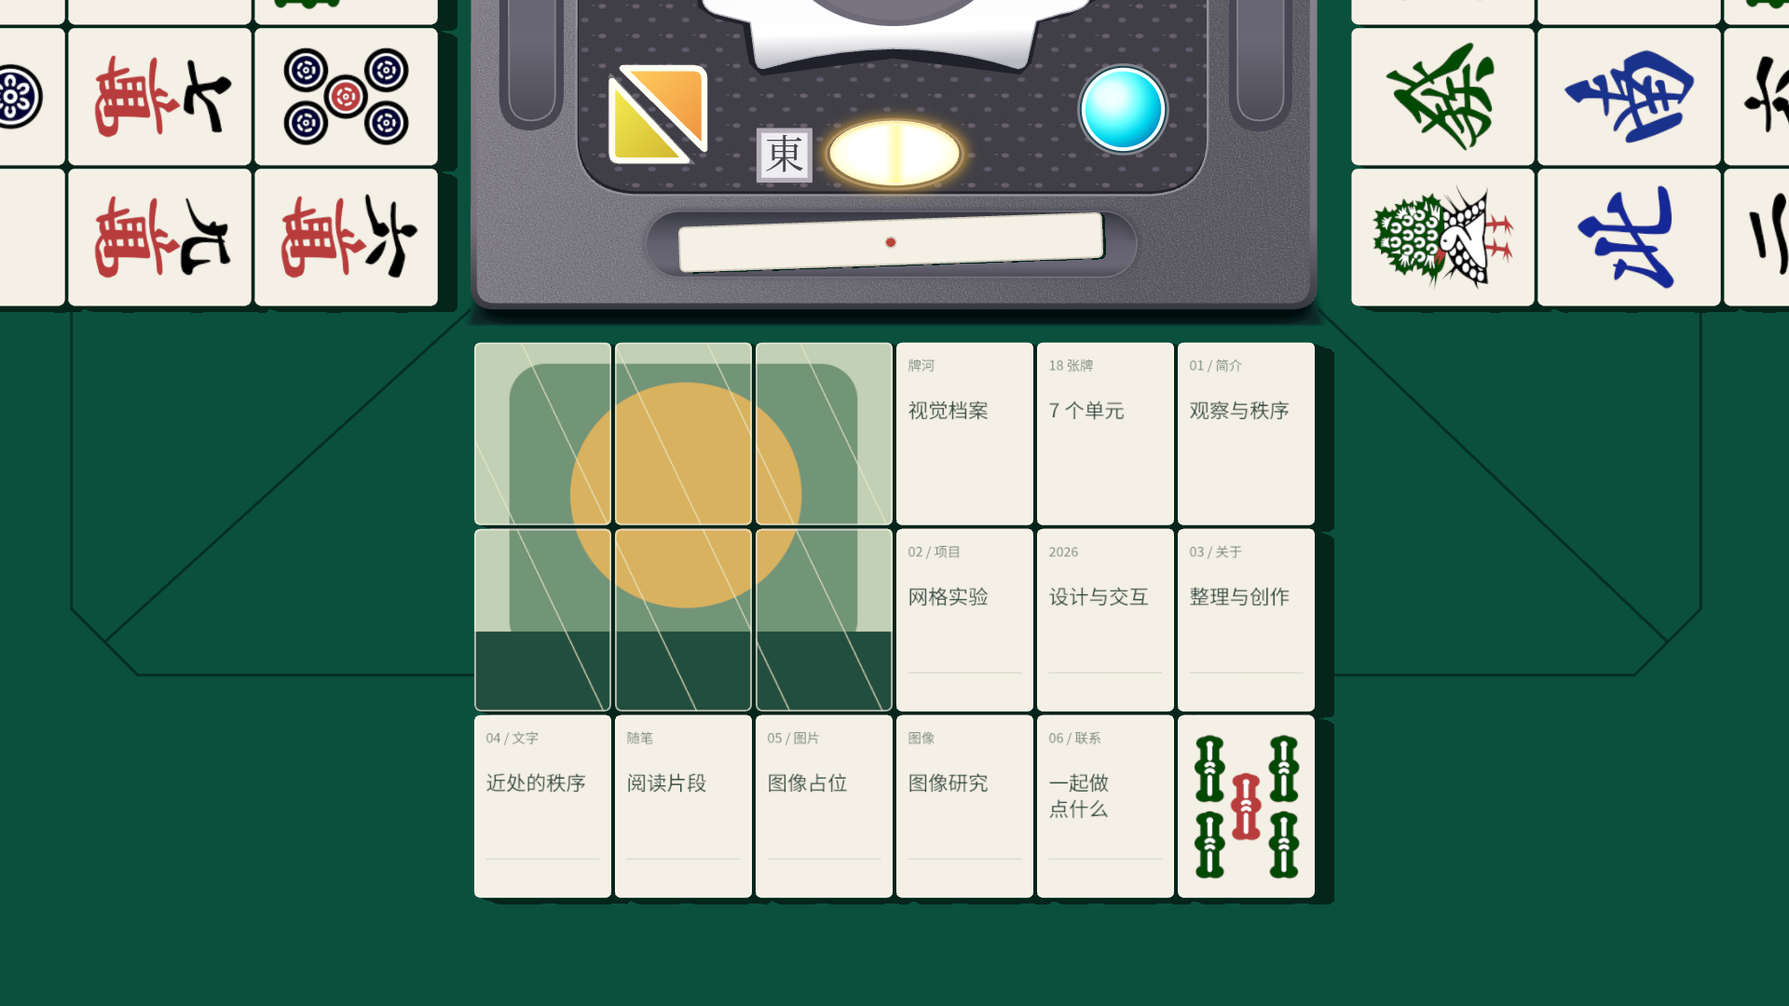
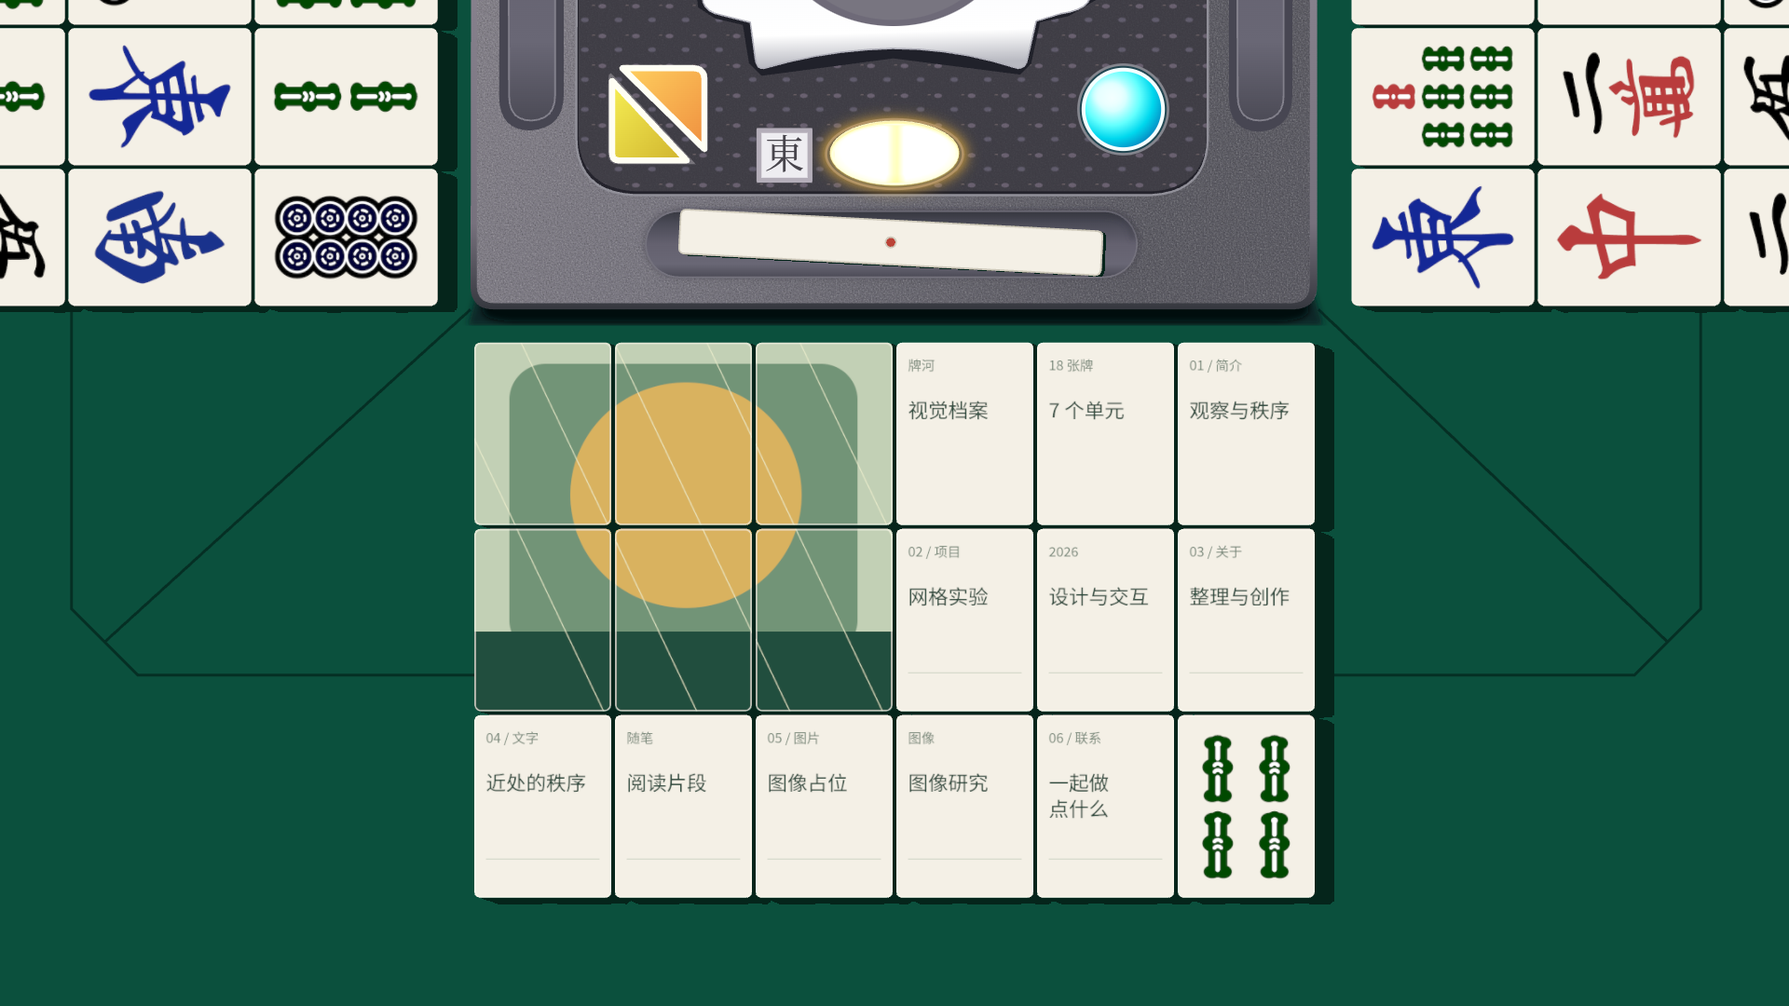
Switch yellow control between start and reset with a three-degree stick tilt

diff --git a/app.js b/app.js
@@ -1,10 +1,10 @@
-import { smooth, center, entryScale, flipPose, motionDistance } from './geometry.js?v=20261011-all-rivers';
-import { Mahjong3D, VIEW } from './mahjong-3d.js?v=20261011-all-rivers';
-import { REST_STICK, STICK_PICKUP_DURATION, createStickDrop, stickMotionDistance } from './score-stick.js?v=20261011-all-rivers';
-import { flipAt, settleFlips, revealTiles, resetTiles } from './tile-interactions.js?v=20261011-all-rivers';
-import { RIICHI_FACES, nextRiichiFace, sideRiverFaces } from './riichi-faces.js?v=20261011-all-rivers';
-import { sideRiverCenters } from './river-layout.js?v=20261011-all-rivers';
-import { drawTableSeams, tableLayout } from './table-surface.js?v=20261011-all-rivers';
+import { smooth, center, entryScale, flipPose, motionDistance } from './geometry.js?v=20261011-start-button';
+import { Mahjong3D, VIEW } from './mahjong-3d.js?v=20261011-start-button';
+import { REST_STICK, STICK_PICKUP_DURATION, createStickDrop, stickMotionDistance } from './score-stick.js?v=20261011-start-button';
+import { flipAt, settleFlips, revealTiles, resetTiles, topLeftTile, yellowAction } from './tile-interactions.js?v=20261011-start-button';
+import { RIICHI_FACES, nextRiichiFace, sideRiverFaces } from './riichi-faces.js?v=20261011-start-button';
+import { sideRiverCenters } from './river-layout.js?v=20261011-start-button';
+import { drawTableSeams, tableLayout } from './table-surface.js?v=20261011-start-button';
 import { CONTROL } from './physical-layout.js';
 
 const $ = (id) => document.getElementById(id);
@@ -242,7 +242,7 @@ function render(time) {
     scene.inert = false;
     $('score-stick').disabled = false;
     $('reset').disabled = false;
-    $('status').textContent = '三处牌河已落定。点击任意蓝背牌，以它为中心波纹翻开全部牌。';
+    $('status').textContent = '三处牌河已落定。点击黄色灯开始，或点击任意蓝背牌，以它为中心波纹翻开全部牌。';
   }
   if (stickDrop && time >= stickEpoch + stickDrop.duration) {
     restingStick = stickDrop.settled; stickDrop = null;
@@ -259,7 +259,7 @@ function render(time) {
   if (resetCycle && time >= resetCycle.end) {
     resetCycle = null; phase = 'idle'; $('reset').disabled = false;
     changeRiichiFace();
-    $('status').textContent = '三处牌河已恢复蓝背。点击任意蓝背牌，再次以它为中心波纹翻开全部牌。';
+    $('status').textContent = '三处牌河已恢复蓝背。点击黄色灯开始，或点击任意蓝背牌再次展开。';
   }
   if (interactive() && tiles.every(tile => tile.front && !tile.flips.length)) $('status').textContent = '三处牌河全部翻开。点击黄色灯，从所有牌中左上方的一张开始波纹合牌。';
   board.setAttribute('aria-busy', String(phase === 'entry' || Boolean(resetCycle) || tiles.some((tile) => tile.flips.length)));
@@ -272,6 +272,7 @@ function render(time) {
     ? Array.from({ length: 7 }, (_, index) => tiles.map((tile) => poseAt(tile, time - blur.window * index / 6)))
     : [];
   const stickSamples = sampledPoses.map((_, index) => stickPoseAt(time - blur.window * index / 6));
+  syncControlState();
   mahjong.render(currentPoses, sampledPoses, blur.amount, stickPoseAt(time), stickSamples, { opacity: sceneryOpacity });
   const stickBounds = mahjong.getStickBounds(), hitHeight = Math.max(44, stickBounds.height);
   Object.assign($('score-stick').style, {
@@ -306,6 +307,7 @@ function startReveal(tile) {
   for (const candidate of tiles) updateTileLabel(candidate);
   board.setAttribute('aria-busy', 'true');
   $('status').textContent = `正在以${tilePositionLabel(tile)}为中心波纹翻开三处牌河。`;
+  syncControlState();
   requestRender();
 }
 
@@ -313,11 +315,13 @@ function startReset() {
   if (!interactive()) return;
   const time = performance.now();
   for (const tile of tiles) settleFlips(tile, time);
+  if (yellowAction(tiles) === 'start') { startReveal(topLeftTile(tiles)); return; }
   resetCycle = resetTiles(tiles, time, tiles.map((tile) => poseAt(tile, time)));
   hovered = null; pressed = null; phase = 'reset-conceal';
   for (const tile of tiles) updateTileLabel(tile);
   $('reset').disabled = true; board.setAttribute('aria-busy', 'true');
   $('status').textContent = '正在从三处牌河中左上方的一张开始波纹合牌。';
+  syncControlState();
   requestRender();
 }
 
@@ -377,9 +381,17 @@ function createHitTargets() {
   }
 }
 
+function syncControlState() {
+  const action = yellowAction(tiles), label = action === 'start' ? '开始' : '重置';
+  const control = $('reset');
+  control.dataset.action = action;
+  control.setAttribute('aria-label', `黄色灯${label}：从所有牌中左上方的一张开始波纹${action === 'start' ? '展开' : '合牌'}`);
+  const current = hoveredControl ?? focusedControl;
+  mahjong?.setStickHint(current === 'reset' ? label : CONTROL_HINTS[current] ?? '');
+}
+
 function updateControlHint() {
-  if (!mahjong) return;
-  mahjong.setStickHint(CONTROL_HINTS[hoveredControl ?? focusedControl] ?? '');
+  syncControlState();
   requestRender();
 }
 
@@ -425,7 +437,7 @@ async function initialize() {
     style.addEventListener('error', () => reject(new Error('Stylesheet failed to load')), { once: true });
   });
   await document.fonts.ready;
-  await Promise.all([buildTextures(), loadImage('./assets/control-box.svg?v=20261011-all-rivers').then((image) => { consoleImage = image; })]);
+  await Promise.all([buildTextures(), loadImage('./assets/control-box.svg?v=20261011-start-button').then((image) => { consoleImage = image; })]);
   mahjong = new Mahjong3D($('mahjong'), mainTiles, sideTiles);
   updateControlHint();
   resize();

diff --git a/tests/tile-interactions.test.js b/tests/tile-interactions.test.js
@@ -2,7 +2,7 @@ import test from 'node:test';
 import assert from 'node:assert/strict';
 import { center, flipPose } from '../geometry.js';
 import { sideRiverCenters } from '../river-layout.js';
-import { topLeftTile, rippleDelays, flipAt, settleFlips, revealTiles, resetTiles } from '../tile-interactions.js';
+import { topLeftTile, yellowAction, rippleDelays, flipAt, settleFlips, revealTiles, resetTiles } from '../tile-interactions.js';
 
 const makeTiles = () => [...Array.from({ length: 18 }, (_, index) => center(index)), ...sideRiverCenters('kamicha'), ...sideRiverCenters('shimocha')]
   .map((position, index) => ({ ...position, index, front: false, flips: [], tween: null }));
@@ -11,6 +11,22 @@ const poses = (tiles, time) => tiles.map(tile => {
   const flip = flipAt(tile, time);
   return flip ? flipPose(time - flip.start, flip.from, flip.fromFront, flip.fromHeight)
     : { theta: tile.front ? Math.PI : 0, q: 1, height: 0 };
+});
+
+test('yellow control starts a closed board at the global top-left and resets an open or moving board', () => {
+  const tiles = makeTiles();
+  assert.equal(yellowAction(tiles), 'start');
+  const cycle = revealTiles(tiles, topLeftTile(tiles).index, 100, poses(tiles, 100));
+  assert.equal(cycle.origin, 30); assert.equal(tiles[30].flips[0].start, 100);
+  assert.equal(yellowAction(tiles), 'reset');
+  for (const tile of tiles) settleFlips(tile, cycle.end);
+  assert.equal(yellowAction(tiles), 'reset');
+  const closing = resetTiles(tiles, 1500, poses(tiles, 1500));
+  assert.equal(yellowAction(tiles), 'reset');
+  for (const tile of tiles) settleFlips(tile, closing.end);
+  assert.equal(yellowAction(tiles), 'start');
+  tiles[0].front = true;
+  assert.equal(yellowAction(tiles), 'reset');
 });
 
 test('every tile across all three rivers can originate a spatial reveal wave', () => {

diff --git a/index.html b/index.html
@@ -13,9 +13,9 @@
       #loading[hidden] { display: none; }
     </style>
     <link rel="icon" href="./assets/favicon.svg" type="image/svg+xml">
-    <link id="page-style" rel="stylesheet" href="./styles.css?v=20261011-all-rivers" media="print" onload="this.media='all'">
-    <noscript><link rel="stylesheet" href="./styles.css?v=20261011-all-rivers"></noscript>
-    <script src="./app.js?v=20261011-all-rivers" type="module"></script>
+    <link id="page-style" rel="stylesheet" href="./styles.css?v=20261011-start-button" media="print" onload="this.media='all'">
+    <noscript><link rel="stylesheet" href="./styles.css?v=20261011-start-button"></noscript>
+    <script src="./app.js?v=20261011-start-button" type="module"></script>
   </head>
   <body>
     <div id="loading" role="status" aria-live="polite"><span id="loading-text">loading</span></div>
@@ -25,7 +25,7 @@
           <canvas id="table" width="1920" height="1080" aria-hidden="true"></canvas>
           <canvas id="mahjong" width="2240" height="1040" aria-hidden="true"></canvas>
           <header class="console" aria-label="麻将桌控制盒">
-            <button id="reset" class="mechanical reset" type="button" aria-label="黄色灯重置：从所有牌中左上方的一张开始波纹合牌" disabled>
+            <button id="reset" class="mechanical reset" type="button" data-action="start" aria-label="黄色灯开始：从所有牌中左上方的一张开始波纹展开" disabled>
               <span class="button-top" aria-hidden="true"></span>
             </button>
             <a id="dealer" class="mechanical dealer" href="https://github.com/5h1nRyu" target="_blank" rel="noopener noreferrer" aria-label="github（新标签页打开）"></a>

diff --git a/score-stick.js b/score-stick.js
@@ -5,7 +5,7 @@ import { REAL_SIZE, mm, STICK_CENTER } from './physical-layout.js';
 // The same millimeter conversion as the tiles and 2D control box.
 export const STICK = Object.freeze({ length: mm(REAL_SIZE.stick.length), width: mm(REAL_SIZE.stick.width), thickness: mm(REAL_SIZE.stick.thickness), x: STICK_CENTER.x, y: -STICK_CENTER.y });
 export const MAX_STICK_YAW = 8 * Math.PI / 180;
-export const INITIAL_STICK_ANGLE = -2 * Math.PI / 180;
+export const INITIAL_STICK_ANGLE = 3 * Math.PI / 180;
 // Screen Y points down; invert the screen angle for the 3D world's Z rotation.
 export const REST_STICK = Object.freeze({ x: STICK.x, y: STICK.y, z: STICK.thickness / 2, quaternion: Object.freeze(new Quaternion().setFromAxisAngle(new Vector3(0, 0, 1), -INITIAL_STICK_ANGLE).toArray()) });
 const STEP = 1 / 240, PICKUP = 360, GRAVITY = 1600;

diff --git a/tests/score-stick.test.js b/tests/score-stick.test.js
@@ -8,9 +8,9 @@ function random(seed) {
   return () => { seed = (1664525 * seed + 1013904223) >>> 0; return seed / 4294967296; };
 }
 
-test('the initial stick sits flat at the slot midpoint with a minus-two-degree screen angle', () => {
+test('the initial stick sits flat at the slot midpoint with a plus-three-degree screen angle', () => {
   const axis = new Vector3(1, 0, 0).applyQuaternion(new Quaternion().fromArray(REST_STICK.quaternion));
-  assert.equal(INITIAL_STICK_ANGLE, -2 * Math.PI / 180);
+  assert.equal(INITIAL_STICK_ANGLE, 3 * Math.PI / 180);
   assert.ok(Math.abs(Math.atan2(-axis.y, axis.x) - INITIAL_STICK_ANGLE) < .000001);
   assert.equal(REST_STICK.x, STICK.x); assert.equal(REST_STICK.y, STICK.y);
   assert.ok(Math.abs(stickClearance(REST_STICK)) < .000001);

diff --git a/mahjong-3d.js b/mahjong-3d.js
@@ -1,7 +1,7 @@
 import * as THREE from './vendor/three.module.js';
-import { SPEC } from './geometry.js?v=20261011-all-rivers';
+import { SPEC } from './geometry.js?v=20261011-start-button';
 import { mm } from './physical-layout.js';
-import { STICK, REST_STICK } from './score-stick.js?v=20261011-all-rivers';
+import { STICK, REST_STICK } from './score-stick.js?v=20261011-start-button';
 
 // Includes every lifted/rotated silhouette and the light's maximum projected shadow.
 export const VIEW = Object.freeze({ left: -160, top: 0, width: 2240, height: 1040 });

diff --git a/tile-interactions.js b/tile-interactions.js
@@ -1,7 +1,11 @@
-import { SPEC } from './geometry.js?v=20261011-all-rivers';
+import { SPEC } from './geometry.js?v=20261011-start-button';
 
 export function topLeftTile(tiles) {
   return tiles.reduce((first, tile) => !first || tile.y < first.y || (tile.y === first.y && tile.x < first.x) ? tile : first, null);
+}
+
+export function yellowAction(tiles) {
+  return tiles.every(tile => !tile.front && !tile.flips.length) ? 'start' : 'reset';
 }
 
 export function rippleDelays(tiles, origin) {

diff --git a/river-layout.js b/river-layout.js
@@ -1,4 +1,4 @@
-import { SPEC, center } from './geometry.js?v=20261011-all-rivers';
+import { SPEC, center } from './geometry.js?v=20261011-start-button';
 import { CONTROL } from './physical-layout.js';
 
 // Rotate the main river around the full square control box, including the part

diff --git a/README.md b/README.md
@@ -38,9 +38,9 @@
 
 控制盒按用户提供的 **698 × 262** 下半部分参考图重新绘制，纹理与部件由本地 `assets/control-box.svg` 提供，继续使用二维绘制。保留灰色颗粒外壳、紫灰点纹面板、上缘局部金属框、两侧纵向凹槽、起家与连庄三角按钮、黄色椭圆灯、蓝色圆灯、“東”标志和立直棒槽。三角按钮与品牌文字已去除；两个三角按钮保持原尺寸，对角白边之间的间距缩短为原来的一半。
 
-视口上沿对应参考图的 y = 0；绘图资产只包含参考图中露出的部分，不添加控制盒上半部分。外壳 x = 7..689 的宽度仍为 910 个设计像素，整张裁切图统一等比缩放，包含底部阴影的可见高度约为 349.6。黄色灯保留原来的悬停、按下反馈，并执行下面的合牌波纹；起家按钮在新标签页打开 [GitHub](https://github.com/5h1nRyu)，连庄按钮在新标签页打开 [bilibili](https://space.bilibili.com/3546925661948276)，蓝色灯暂不绑定点击功能。
+视口上沿对应参考图的 y = 0；绘图资产只包含参考图中露出的部分，不添加控制盒上半部分。外壳 x = 7..689 的宽度仍为 910 个设计像素，整张裁切图统一等比缩放，包含底部阴影的可见高度约为 349.6。黄色灯保留原来的悬停、按下反馈，并按牌面状态执行下面的展开或合牌波纹；起家按钮在新标签页打开 [GitHub](https://github.com/5h1nRyu)，连庄按钮在新标签页打开 [bilibili](https://space.bilibili.com/3546925661948276)，蓝色灯暂不绑定点击功能。
 
-鼠标悬停在四个按钮时，点棒上表面的红点立即替换为黑色提示：起家为 `github`、连庄为 `bilibili`、黄色灯为“重置”、蓝色灯为“探索”。提示按实际字形边界在棒体正中绘制，并随三维棒体姿态一起变化；鼠标移开后恢复红点。键盘聚焦也提供相同提示。
+鼠标悬停在四个按钮时，点棒上表面的红点立即替换为黑色提示：起家为 `github`、连庄为 `bilibili`、蓝色灯为“探索”。黄色灯在全部牌背且没有待播放的翻转时显示“开始”，展开中或有正面牌时显示“重置”，合完后重新显示“开始”；鼠标停留或键盘聚焦期间，提示也会随状态立即更新。提示按实际字形边界在棒体正中绘制，并随三维棒体姿态一起变化；鼠标移开后恢复红点。键盘聚焦也提供相同提示。
 
 ![参考图控制盒的露出范围与部件](docs/v2-control-preview.png)
 
@@ -50,7 +50,7 @@
 
 - 初次打开：中央 loading 淡出后，全部牌河的蓝背统一进场，其他部件同步淡入；入场开始 1100 ms 后可操作，不自动揭示。
 - **点击蓝背牌**：以点击的这一张为波纹中心，按实际牌位的欧氏距离依次翻开全部 54 张牌。三处牌河共用同一个波纹，最远牌延迟 600 ms 开始，每张翻转 600 ms，全程最多 1200 ms。已翻开的牌跳过；重复点击正面牌或已经排入波纹的牌不会重启动画。
-- **黄色灯重置**：直接从全部牌中最上方、同高度时最靠左的一张开始波纹合牌，跳过牌背，不再补齐翻开或等待 0.5 秒。起点按所有牌的实际位置确定，包含两侧超出屏幕的牌，在现有布局中是上家牌河最外侧一列最上方的牌。全部正面时最多 1200 ms 合完；全背时直接结束。在展开途中重置会取消尚未开始的翻转，正在翻转的牌连续完成后再合上，避免姿态跳变。合牌期间忽略重复重置和牌面点击。
+- **黄色灯开始 / 重置**：全部未翻开且没有进行中的翻转时，点击黄色灯从全局左上方的牌开始波纹展开全部 54 张牌，点棒提示为“开始”。展开中或有牌正面朝上时，同一按钮改为“重置”，从相同起点直接波纹合牌，跳过牌背，不等待 0.5 秒。起点按所有牌的实际位置确定，包含两侧超出屏幕的牌，在现有布局中是上家牌河最外侧一列最上方的牌。展开或全部正面合牌均最多 1200 ms；合完后恢复“开始”。在展开途中重置会取消尚未开始的翻转，正在翻转的牌连续完成后再合上，避免姿态跳变。合牌期间忽略重复重置和牌面点击。
 - 单牌悬停：围绕自身中心放大 4%，独立内容同步变化，邻牌不缩放。
 - 正面牌再次点击没有反应，也不弹窗。控制盒的起家与连庄按钮在新标签页打开对应主页，四个按钮通过点棒显示悬停提示。
 - 鼠标、键盘 Enter / 空格及触屏均可触发三处牌河的波纹。方向键按屏幕中的实际方向选择可见牌；点击区域裁切到实际露出的部分，屏幕外的牌不接受焦点，不引起页面滚动。
@@ -76,7 +76,7 @@
 
 - **实物参考**：[日本麻雀用具专门店的白色千点棒](https://item.rakuten.co.jp/auc-e-mahjong/siro-tenbo1000/)，商品尺寸约 65 × 7 × 3 mm。与牌和控制盒使用同一毫米比例，得到 455 × 49 × 21 的圆角实体；中央红点嵌入两侧宽面，棒体不显示标题或点数文字。[近代麻雀的点棒说明](https://kinmaweb.jp/mahjong-rule/tenbou)确认传统点棒依靠点纹区分点数。
 - **拿起与松手**：整段拿起、掉落和回弹动画以原来的 1.5 倍速度播放，抬起用时由 360 ms 缩短为 240 ms。每次改变长轴、短轴方向的倾角；随后在重力作用下掉落。拿起下一次时，从上一次落定的实际位置和方向连续开始。
-- **初始偏斜**：点棒初始在屏幕中为 **−2°**，右端略向上，仍平放在槽中且中点固定。第一次点击从这个实际姿态拿起；后续落定方向继续遵守原有的水平 ±8° 范围。
+- **初始偏斜**：点棒初始在屏幕中为 **+3°**，右端略向下，仍平放在槽中且中点固定。第一次点击从这个实际姿态拿起；后续落定方向继续遵守原有的水平 ±8° 范围。
 - **圆角与落点**：点棒外轮廓圆角约 0.8 mm，边缘使用 0.25 mm 的三段圆润倒角。整个动画的水平中点固定在立直棒槽中心；每次独立选择落定方向，相对最初水平状态在 **−8° 到 +8°** 之间，不累积上一次的角度。抬起与碰撞期间仍保留三维端部倾斜和摇晃，落定后棒体平放。
 - **碰撞与弹跳**：使用 240 Hz 固定步长计算刚体角动量、惯性、角点接触冲量、恢复系数和摩擦，并约束水平中点和落定方向。一端先着地会带动棒体旋转，再发生另一端碰撞和回弹；通过加速播放保留完整轨迹，原来约 1.0–1.4 秒的动画缩短为约 0.67–0.93 秒。没有预设的上下往返弹跳曲线。
 - **同一三维场景**：与麻将共用正上方正交相机、卡通材质和唯一方向光，阴影随真实高度和姿态变化。槽位、控制盒和导航按钮仍为二维。
@@ -112,7 +112,7 @@ python3 -m http.server 8080
 
 部署完成后访问 **https://5h1nryu.github.io/ShinRyu/**。
 
-本次更新给入口脚本、样式、麻将与点棒模块、翻牌交互模块、日麻牌面模块、桌面接缝模块和控制盒图片的 URL 加了 `v=20261011-all-rivers` 版本参数，让浏览器和 CDN 按新地址获取资源。后续修改这些资源时应同步更新对应版本参数，包括引用它们的模块入口。
+本次更新给入口脚本、样式、麻将与点棒模块、翻牌交互模块、日麻牌面模块、桌面接缝模块和控制盒图片的 URL 加了 `v=20261011-start-button` 版本参数，让浏览器和 CDN 按新地址获取资源。后续修改这些资源时应同步更新对应版本参数，包括引用它们的模块入口。
 
 ## 检查与文件
 
@@ -123,7 +123,7 @@ npm run check
 npm test
 ```
 
-测试覆盖 54 个展开波纹起点及按距离传播、所有牌的全局左上重置起点、正面点击无效、混合牌面与全正面/全背面直接合牌、展开途中取消未开始的翻转及保持进行中的姿态、两侧翻转长轴与正面朝向、初始点棒 −2°、主牌河间距缩为三分之一、两侧随机牌池无赤五及合计最多两张、37 种 SVG 与 136 张牌的权重、相邻重置换牌不重复、参考图接缝比例、固定构图与桌面扩展、统一毫米比例、三维模型厚度与桌面穿透、正面 UV、正交相机，以及点棒加速、圆角、碰撞、回弹、固定中点和连续 80 次落定角度变化与 ±8° 上限。检查工作流同时覆盖 main 与 v2 的推送。
+测试覆盖黄色灯全背时开始、展开中及已展开时重置、合完后恢复开始的状态切换，54 个展开波纹起点及按距离传播、所有牌的全局左上起点、正面点击无效、混合牌面及全部正面合牌、展开途中取消未开始的翻转及保持进行中的姿态、两侧翻转长轴与正面朝向、初始点棒 +3°、主牌河间距缩为三分之一、两侧随机牌池无赤五及合计最多两张、37 种 SVG 与 136 张牌的权重、相邻重置换牌不重复、参考图接缝比例、固定构图与桌面扩展、统一毫米比例、三维模型厚度与桌面穿透、正面 UV、正交相机，以及点棒加速、圆角、碰撞、回弹、固定中点和连续 80 次落定角度变化与 ±8° 上限。检查工作流同时覆盖 main 与 v2 的推送。
 
 | 文件 | 用途 |
 | --- | --- |
